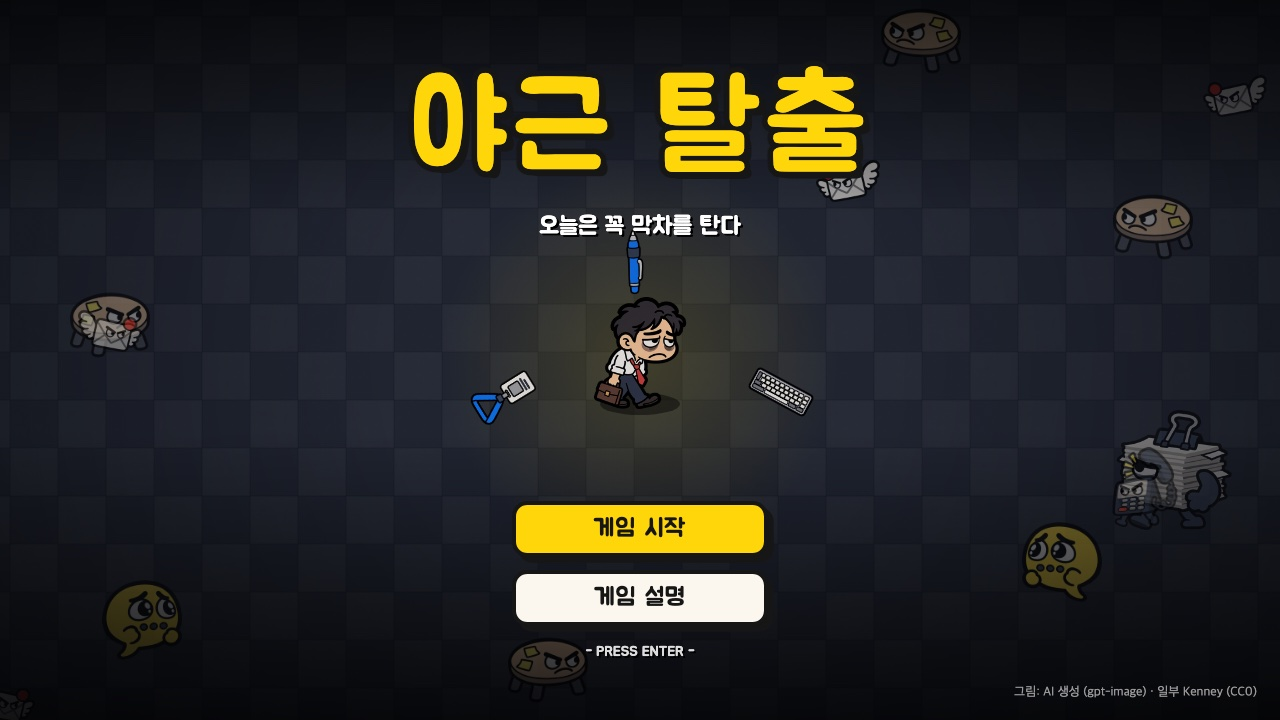
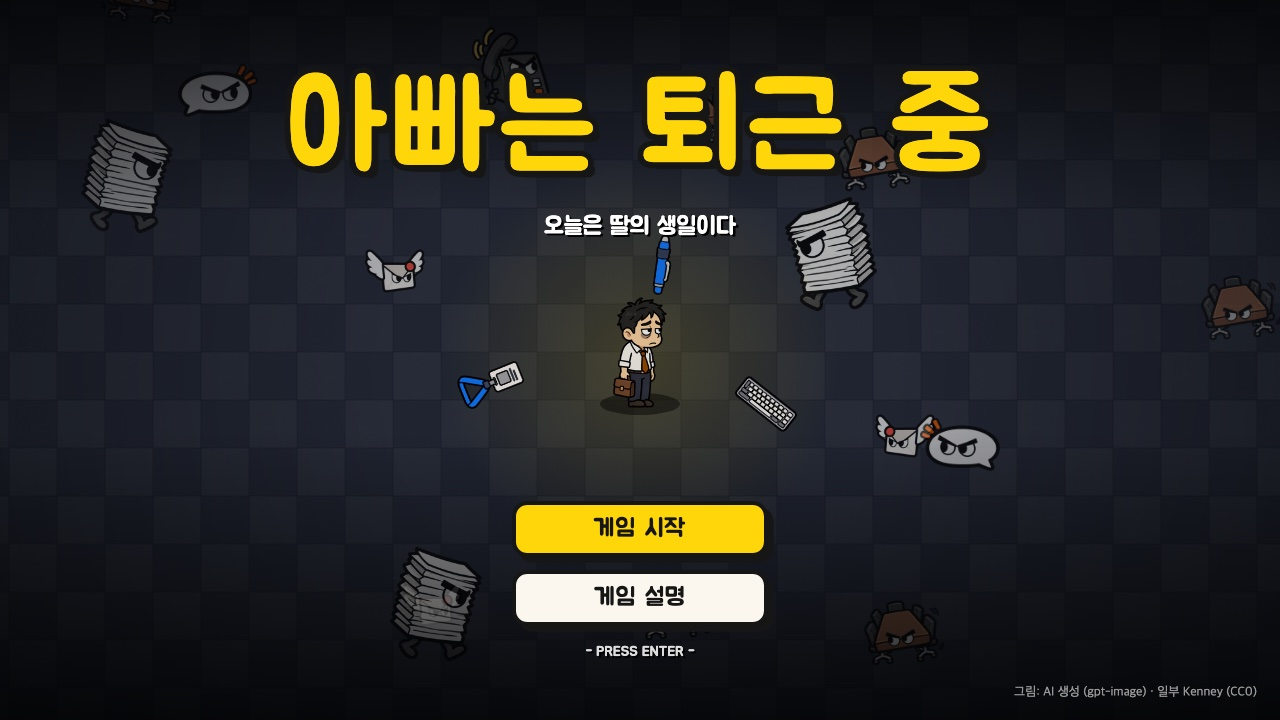
게임 제목을 '아빠는 퇴근 중'으로 변경
- 시작 화면 제목과 브라우저 탭 이름을 '야근 탈출'에서 '아빠는 퇴근 중'으로
- 이름표·검토 안내 문서와 제목 화면 캡처를 새 제목으로 갱신

diff --git a/index.html b/index.html
@@ -2,13 +2,13 @@
 <html lang="ko">
 <head>
   <meta charset="UTF-8" />
-  <title>야근 탈출</title>
+  <title>아빠는 퇴근 중</title>
   <style>
     /* 글꼴: 제목·버튼·게임 안 글자 = Jua (Google Fonts, 둥근 글씨). 못 불러오면 기본 글꼴로 대체됨
        @import 는 반드시 스타일 맨 위에 있어야 함 (중간에 있으면 브라우저가 무시해서 글꼴이 안 불러와짐) */
     @import url("https://fonts.googleapis.com/css2?family=Jua&display=swap");
 
-    /* ===== 색과 글꼴 (야근 탈출: 캐릭터 그림처럼 "굵은 검은 테두리 + 단색 면"의 스티커풍) =====
+    /* ===== 색과 글꼴 (아빠는 퇴근 중: 캐릭터 그림처럼 "굵은 검은 테두리 + 단색 면"의 스티커풍) =====
        색을 바꾸고 싶으면 여기 값만 고치면 모든 창·버튼에 한꺼번에 적용됨 */
     :root {
       --ink: #161616;            /* 테두리·글자 (거의 검정) */
@@ -362,7 +362,7 @@
 
     <div id="titleOverlay">
       <div class="title-head">
-        <h1 class="title-text">야근 탈출</h1>
+        <h1 class="title-text">아빠는 퇴근 중</h1>
         <p class="title-sub">오늘은 딸의 생일이다</p>
       </div>
 

diff --git a/docs/office-reskin/01-names.md b/docs/office-reskin/01-names.md
@@ -3,7 +3,7 @@
 작성일: 2026-09-29. 갱신: 2026-09-30.
 상태: 게임에 반영됨 (브랜치 office-reskin, 커밋 전). 이름과 대사를 고치려면 index.html 의 해당 표를 고치면 된다.
 
-달라진 점: 회식은 의자가 아니라 소주병. 제목은 "야근 탈출" 로 넣어 둠 (바꿀 수 있음). 일시정지 창 제목은 "잠깐 화장실".
+달라진 점: 회식은 의자가 아니라 소주병. 제목은 "아빠는 퇴근 중" (2026-10-01 결정. 처음 이름은 "야근 탈출"). 일시정지 창 제목은 "잠깐 화장실".
 
 ## 1. 확정된 것
 
@@ -136,7 +136,7 @@ hammer, firewand, rune, lightning, bone, phiera, eight, bracelet, cherry, larobb
 
 | 지금 | 새 문구 |
 |---|---|
-| DUNGEON SURVIVOR | 야근 탈출 (다른 후보: 칼퇴) |
+| DUNGEON SURVIVOR | 아빠는 퇴근 중 (처음 이름 야근 탈출) |
 | 레벨 업! | 승진은 아니지만 레벨 업! |
 | 게임 오버 | 오늘도 야근 |
 | 클리어! | 퇴근! |

diff --git a/docs/office-reskin/03-review.md b/docs/office-reskin/03-review.md
@@ -74,7 +74,7 @@
 | 번호 | 질문 | 지금 값 |
 |---|---|---|
 | 1 | 전체적으로 이대로 좋은가, 고칠 곳이 있는가 | |
-| 2 | 게임 제목 | 야근 탈출 (다른 후보: 칼퇴) |
+| 2 | 게임 제목 | 아빠는 퇴근 중 (10-01 결정. 예전 이름 야근 탈출) |
 | 3 | 3층 보스 인사팀장이 여성으로 그려졌다. 그대로 둘까 | 그대로 둠 |
 | 4 | 난이도: 층마다 보스가 나오기까지 올려야 하는 레벨 수(4/4/5/5/5)와 "늦어도 3분" 이 적당한가, 일반 적이 아직 단단한가 | 09-30 에 보스를 시간 대신 레벨로 바꾸고 일반 적 체력 증가를 절반쯤으로 낮춤. 아래 5번 참고 |
 | 5 | 공개 링크에 올릴까 | 올리지 않음 |
